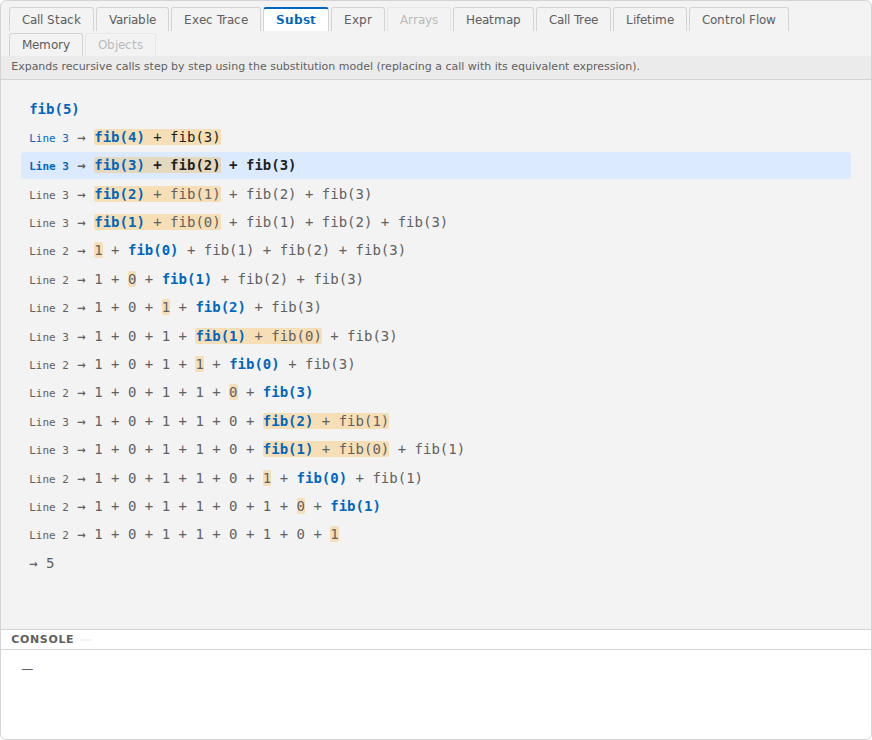
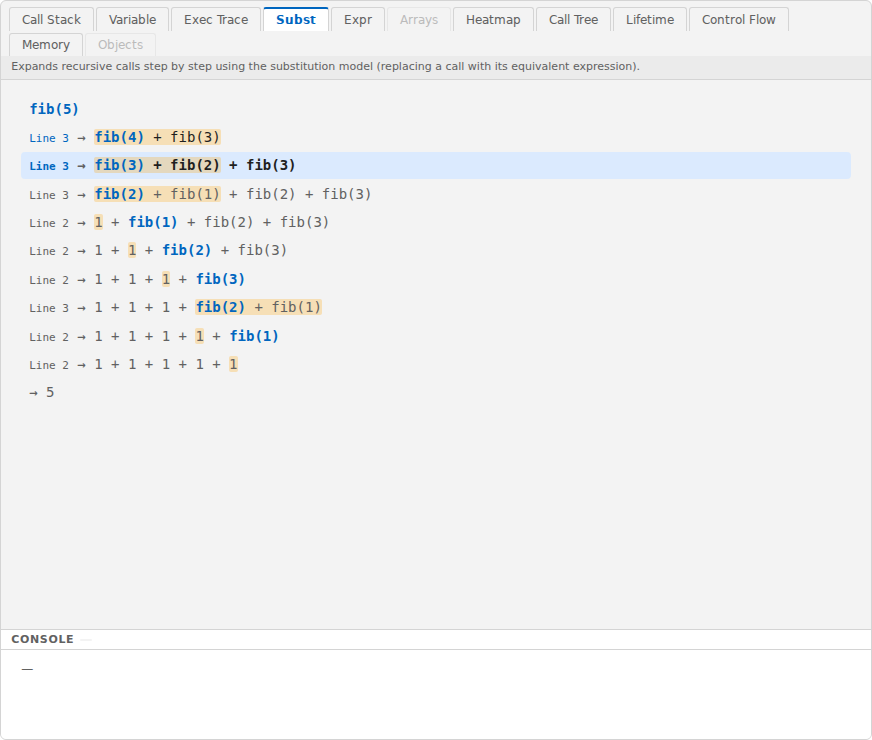
feat: 初期サンプル fib の終了条件を n == 1 || n == 2 に変える
ソフトウェア基礎論の資料と同じ定義にそろえ、関数の呼び出し回数の違いで
学生が混乱しないようにする。マニュアルのスクリーンショットも撮り直す。
評価実験用の [Task 2] は CELDA 2026 の実験条件を保つため変更しない。

diff --git a/src/components/code-editor.js b/src/components/code-editor.js
@@ -29,7 +29,7 @@ export const SAMPLES = {
     label: 'Fibonacci (recursive)',
     code: `\
 function fib(n) {
-  if (n <= 1) return n;
+  if (n == 1 || n == 2) return 1;
   return fib(n - 1) + fib(n - 2);
 }
 fib(5);`,
